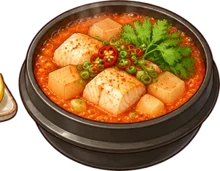
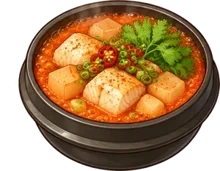
카피백반: 매운탕·물회 그림 옆 잘린 조각 제거, 밥상 이름표를 상 위로
Claude-Session: https://claude.ai/code/session_015t7mweLLBzEFYGgsGmysr6

Changed region(s): [[0.0, 0.4094, 0.0818, 0.731]]

diff --git a/css/app.css b/css/app.css
@@ -3063,3 +3063,5 @@ img.kb-sic { width: 30px; height: 30px; object-fit: contain; display: block; mar
 /* 보송 그림체에서도 밥상 그림은 그대로(위의 .fluffy .kb-tray 가 배경을 지우지 않게) */
 .fluffy .kb-tray.kb-table { background: #7A1C14 url(../img/cook/bapsang.webp) center 55% / cover no-repeat; border: 3px solid #E8D3AE; border-radius: 16px; outline: 0; box-shadow: none; }
 .fluffy .kb-tray.kb-table.on { box-shadow: 0 0 0 3px #3E9A50; }
+/* 밥상 위 요리 이름표: 상 끝이 아니라 상 위 왼쪽에 */
+.kb-tlb { left: 9%; bottom: auto; top: 12px; transform: none; font-size: 12px; padding: 3px 10px; border-radius: 10px; background: rgba(40,12,8,.78); border: 1.5px solid rgba(255,225,180,.55); }
